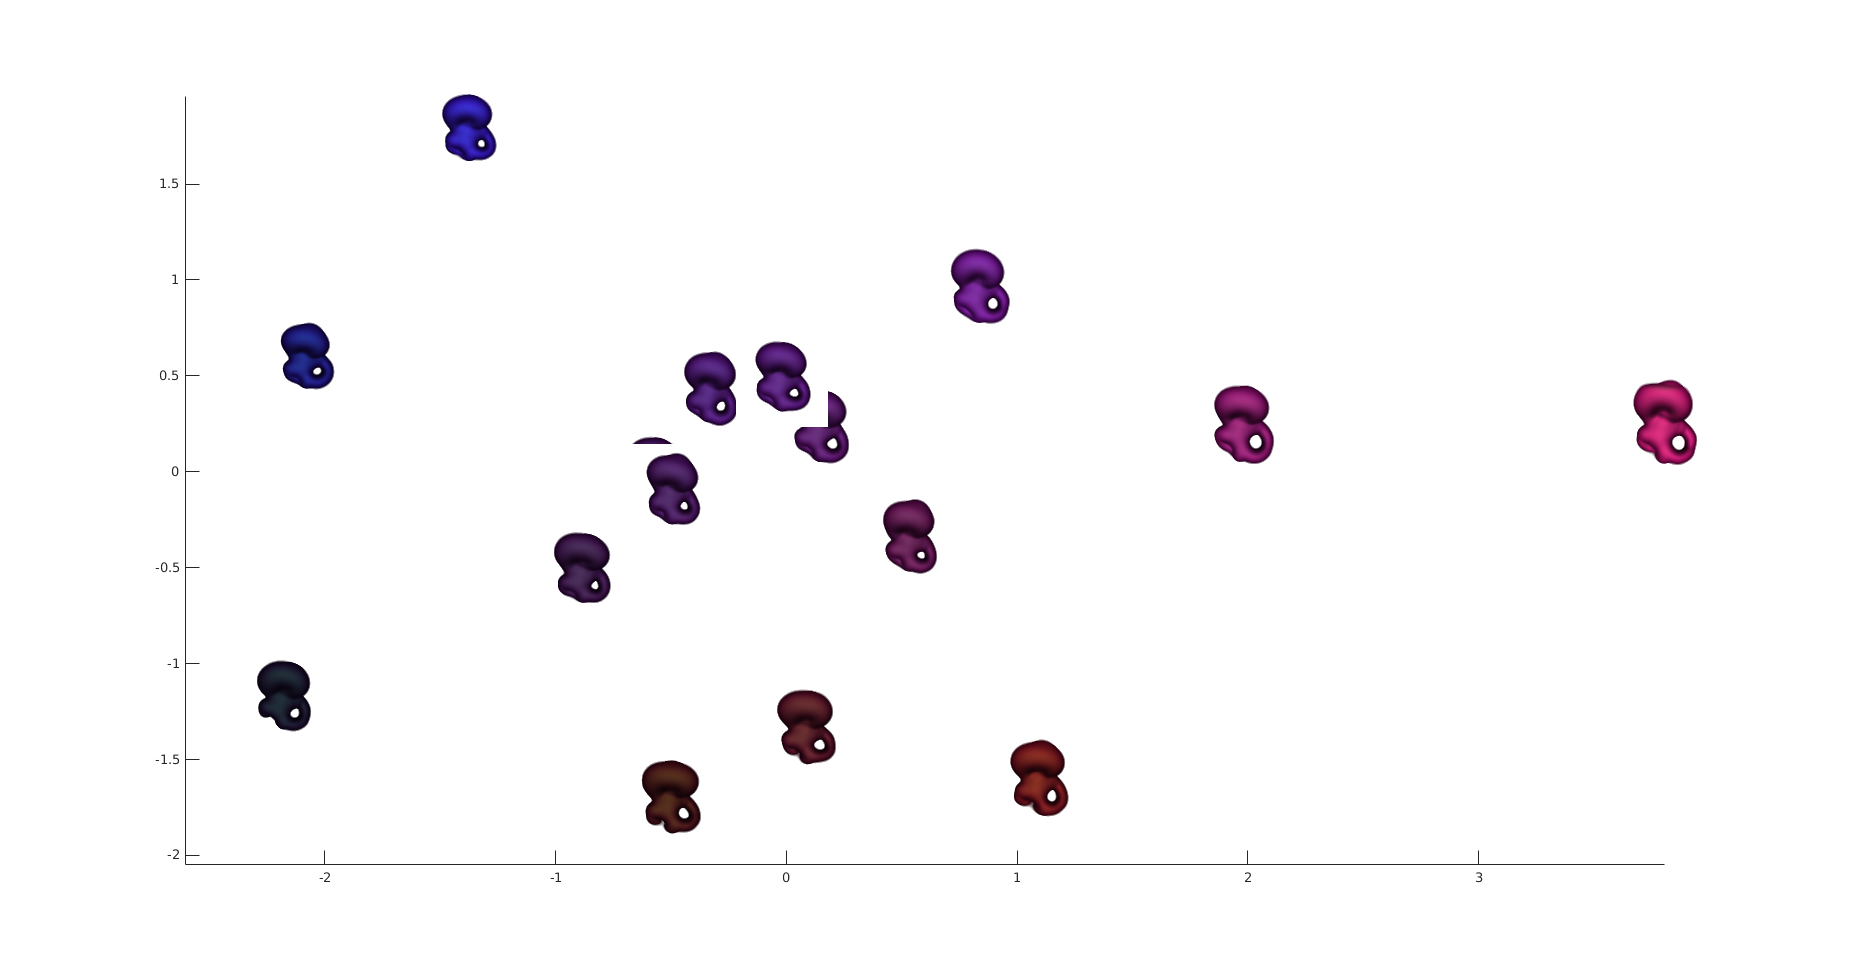
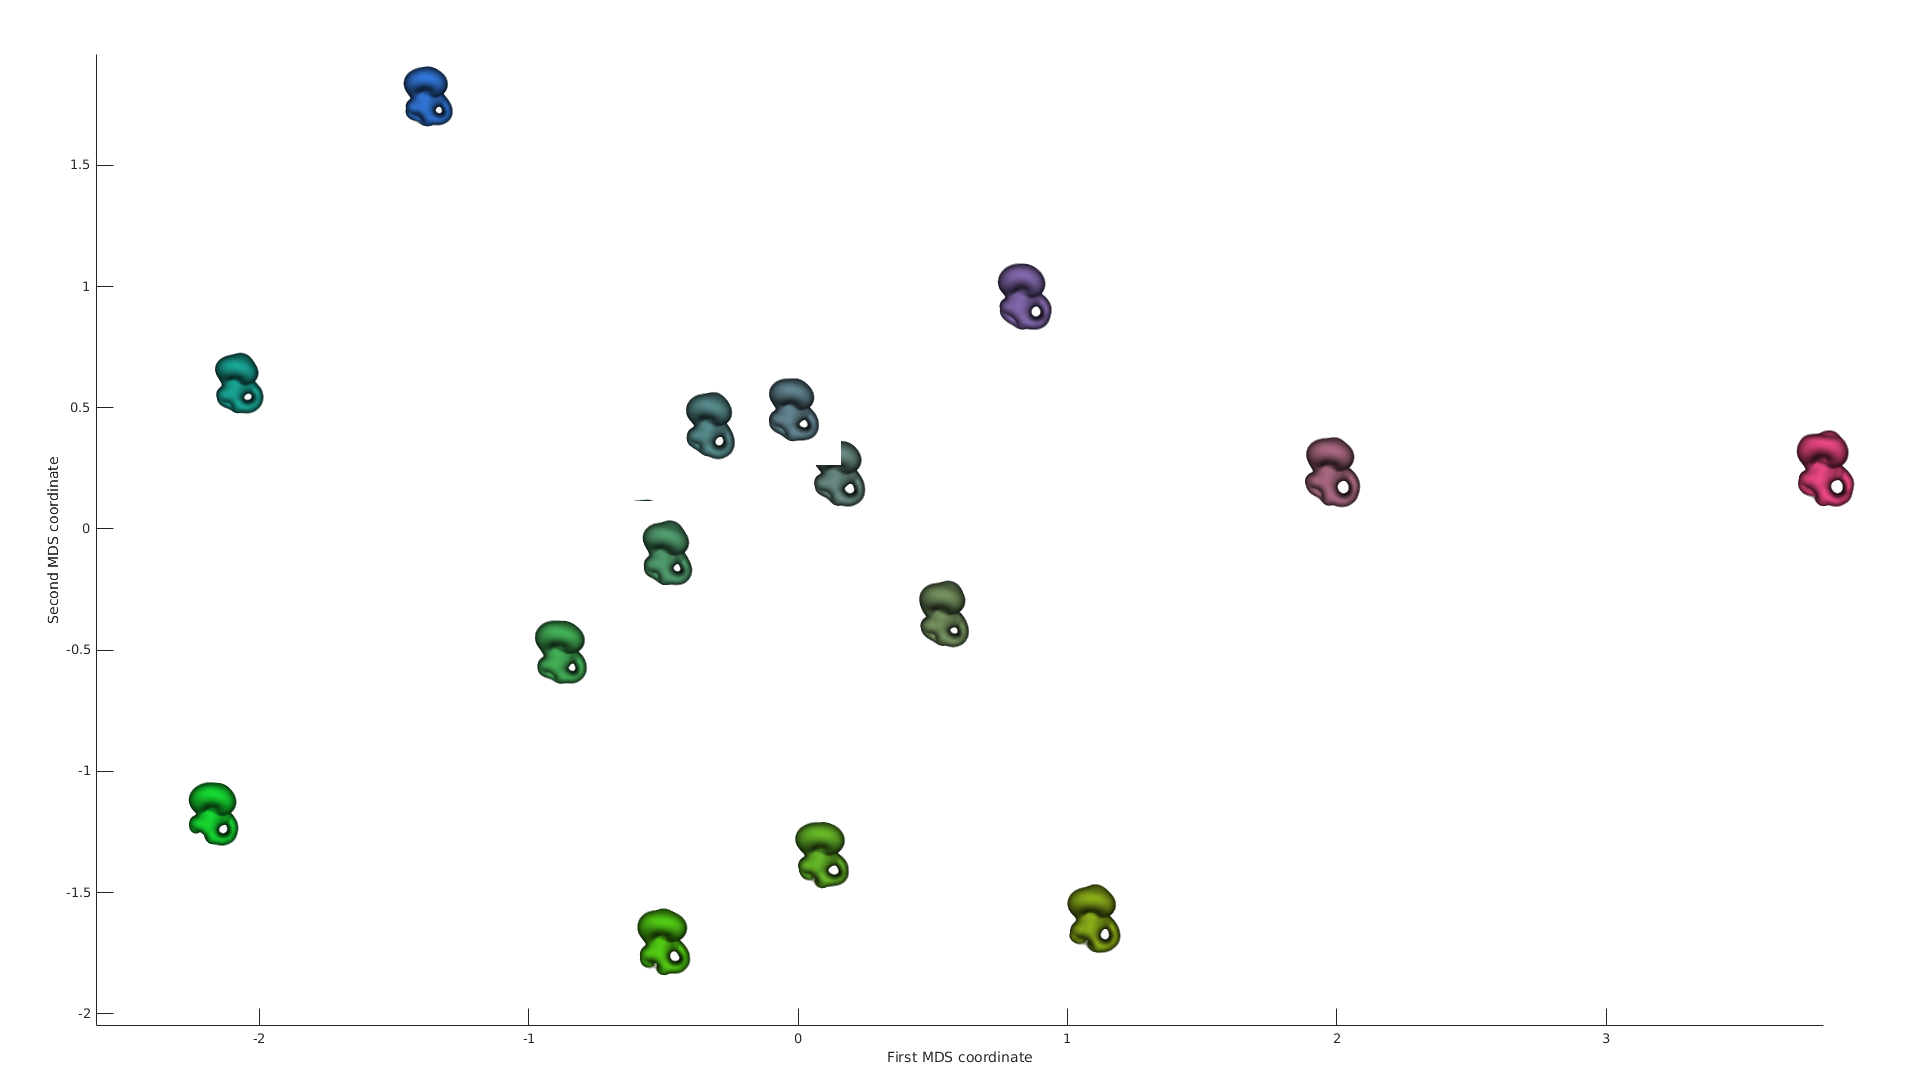
MDS toy example added

diff --git a/matlab/main.m b/matlab/main.m
@@ -2112,7 +2112,7 @@ rows = linspace(5,1,num_rows);
 
 fig.WindowState = 'maximized';
 
-barycenters = {}
+barycenters = {};
 
 for i=rows
     
@@ -2182,13 +2182,17 @@ for i = 1:length(barycenters)
     disp(num2str(round(i/length(barycenters)*100)) + "% done...");
 end
 
+toy_matrix = dissimilarity_matrix;
+
 %% Do MDS on dissimilarity matrix from toy-data above
 format long g
 close all
 clc
 
+enable_prints = true;
+
 % Preprocess WD dissimilarity matrix
-D = dissimilarity_matrix;
+D = toy_matrix;
 D = (D+D')./2; % Symmetricize
 D = D - mean(diag(D)); % Subtract the diagonal mean (shift towards 0)
 
@@ -2222,8 +2226,8 @@ element_height = 120;
 
 % Plot volume rendering
 
-width = element_height * length(barycenters);
-height = width;
+width = 1920;
+height = 1080;
 
 x_shift = 0.2*min(x);
 y_shift = 0.2*min(y);
@@ -2244,7 +2248,7 @@ for i = 1:length(x)
     h = 0.1;
     m = (x(i)+abs(x_shift)-min(x)) / (max(x)-min(x)-x_shift) * window_offset(3)+window_offset(1)-w/2;
     n = (y(i)+abs(y_shift)-min(y)) / (max(y)-min(y)-y_shift) * window_offset(4)+window_offset(2)-h/2;
-    color = [linspace(m,m,256)' linspace(0,1,256)' linspace(n,n,256)'];
+    color = [linspace(m,m,256)' linspace((2-m-n)/2,(2-m-n)/2,256)' linspace(n,n,256)'];
     p = uipanel(fig, 'Position', [m, n, w, h], 'BorderType', 'none');
     volshow(barycenters{i},...
         'Parent', p,...
@@ -2263,28 +2267,38 @@ disp('------------------------')
 fig.WindowState = 'normal';
 fig.Position = [0 0 width height];
 
+xlabel("First MDS coordinate")
+ylabel("Second MDS Coordinate")
 
 if enable_prints
     set(gcf,'InvertHardCopy','off') % preserve background color
     set(gcf,'PaperPositionMode','auto')
     for type = print_types
         if (type{1}{2} ~= '.eps')
-            print(fig2, "prints/"+"mds-toy-example-VolumeRendering-"+type{1}{2}, type{1}{1}, "-r0");
+            set(fig, 'visible', 'off');
+            print(fig, "prints/"+"mds-toy-example-VolumeRendering"+type{1}{2}, type{1}{1}, "-r0");
+            set(gca, 'visible', 'off')
+            print(fig, "prints/"+"mds-toy-example-VolumeRendering-wallpaper"+type{1}{2}, type{1}{1}, "-r0");
         end
     end
 end
 
+% close all
 
-%% Perform MDS on the cochlea dissimilarity matrix nad plot with volume points
+%% Perform MDS on the cochlea dissimilarity matrix and plot with volume points
 format long g
 close all
 clc
 
 enable_prints = true;
-show_scatter_plot = true;
+renderingType = "VolumeRendering";
+show_scatter_plot = false;
 file_resolution = 64;
 resolution = 64;
 shift = 0;
+bgcolor = [1 1 1];
+width = 1920;
+height = 1080;
 
 
 load('dissimilarity_matrix.mat');
@@ -2337,8 +2351,6 @@ if (show_scatter_plot)
 end
 
 % Plot volume plot
-width = element_height * length(x);
-height = width;
 
 x_shift = 0.2*min(x);
 y_shift = 0.2*min(y);
@@ -2347,27 +2359,31 @@ camera_settings = {
     {
         [0 0 0],...
         [0 1 0],...
-        [0 0.75 0.75],...
+        [0 1 1],...
         55
     },...
     {
-        [0 0.2 0],...
+        [0 0 0],...
         [0 1 0],...
-        [-0.7 0.7 0.75]*1.2,...
+        [-1 0.2 1],...
         55
     }
 };
 
 for camera_idx = 1:length(camera_settings)
-    camera = camera_settings{camera_idx}
+    camera = camera_settings{camera_idx};
+    camera{3} = 1.2*camera{3}/norm(camera{3});
+    
     fig2 = figure('Position', [0 0 width height], 'Color', bgcolor);
+    xlabel("First MDS coordinate")
+    ylabel("Second MDS coordinate")
     set(gca,'visible','on')
     set(gca,'xlim', [min(x)+x_shift max(x)])
     set(gca,'ylim', [min(y)+y_shift max(y)])
     hold on
     fig2.WindowState = 'maximized';
 
-    window_offset = [0.1,0.1,0.8,0.8];
+    window_offset = [0.05, 0.05, 0.9, 0.9];
     set(gca,'Position', window_offset);
 
     for i = 2:length(x)
@@ -2383,13 +2399,12 @@ for camera_idx = 1:length(camera_settings)
         m = (x(i)+abs(x_shift)-min(x)) / (max(x)-min(x)-x_shift) * window_offset(3)+window_offset(1)-w/2;
         n = (y(i)+abs(y_shift)-min(y)) / (max(y)-min(y)-y_shift) * window_offset(4)+window_offset(2)-h/2;
 
-        color = [linspace(m,m,256)' linspace(0,1,256)' linspace(n,n,256)'];
-
+        color = [linspace(m,m,256)' linspace((2-m-n)/2,(2-m-n)/2,256)' linspace(n,n,256)'];
+        
         p = uipanel(fig2, 'Position', [m, n, w, h], 'BorderType', 'none');
         volshow(A,...
             'Parent', p,...
             'Renderer', renderingType,...
-            'Isovalue', isosurface_value,...
             'Colormap', color,...
             'CameraViewAngle',camera{4},...
             'CameraTarget',camera{1},...
@@ -2402,16 +2417,17 @@ for camera_idx = 1:length(camera_settings)
 
     fig2.WindowState = 'normal';
     fig2.Position = [0 0 width height];
-
-
+    
     if enable_prints
         set(gcf,'InvertHardCopy','off') % preserve background color
-        set(gcf,'PaperPositionMode','auto')
+%         set(gcf,'PaperPositionMode','auto')
         for type = print_types
             if (type{1}{2} ~= '.eps')
-                print(fig2, "prints/"+"cochlea-mds-VolumeRendering-camera-"+num2str(camera_idx)+"-"+type{1}{2}, type{1}{1}, "-r0");
+                set(fig2, 'visible', 'off')
+                print(fig2, "prints/"+"cochlea-mds-VolumeRendering-camera-"+num2str(camera_idx)+"-"+type{1}{2}, type{1}{1}, '-r0');
             end
         end
+        close all
     end
 
 end
